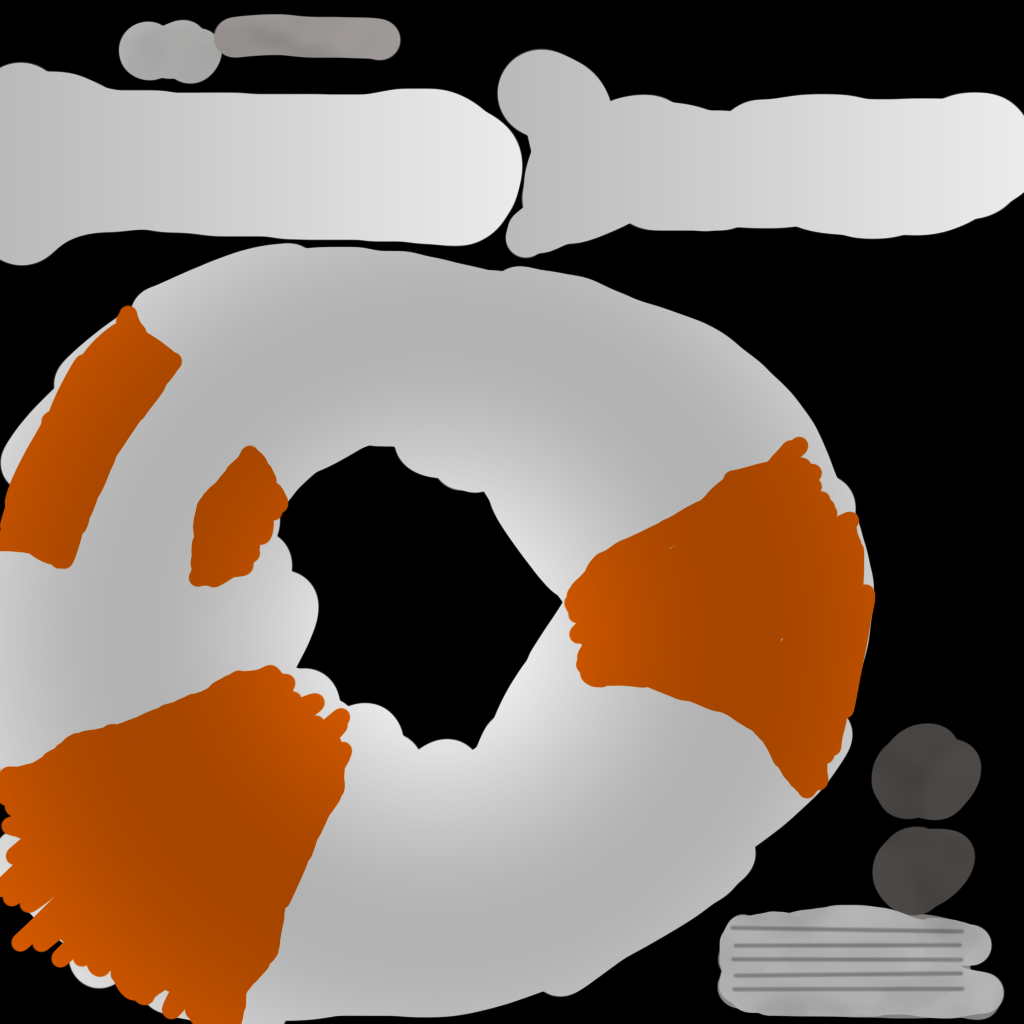
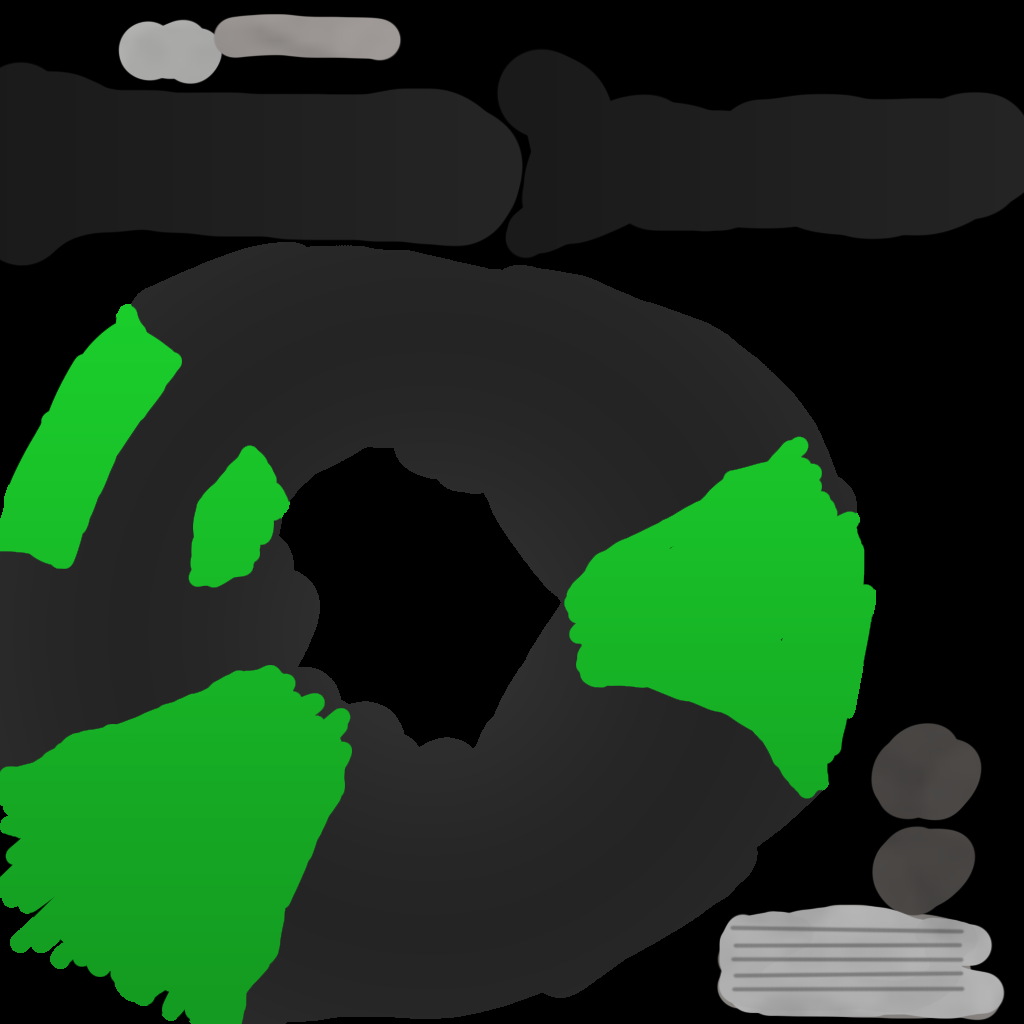
ton of reskin

diff --git a/Assets/Scripts/Logic/GameController.cs b/Assets/Scripts/Logic/GameController.cs
@@ -48,7 +48,7 @@ public class GameController : MonoBehaviour {
 		ReleasedHook += SlowTime;
 
 		int levelIndex = 0;
-		string levelPath = "dani_002";
+		string levelPath = "dani_001";
 		object levelMessage;
 		if (Messenger.Instance != null && Messenger.Instance.GetMessage(LevelSelectPanel.LevelIndexKey, out levelMessage)) {
 			levelIndex = (int)levelMessage;
